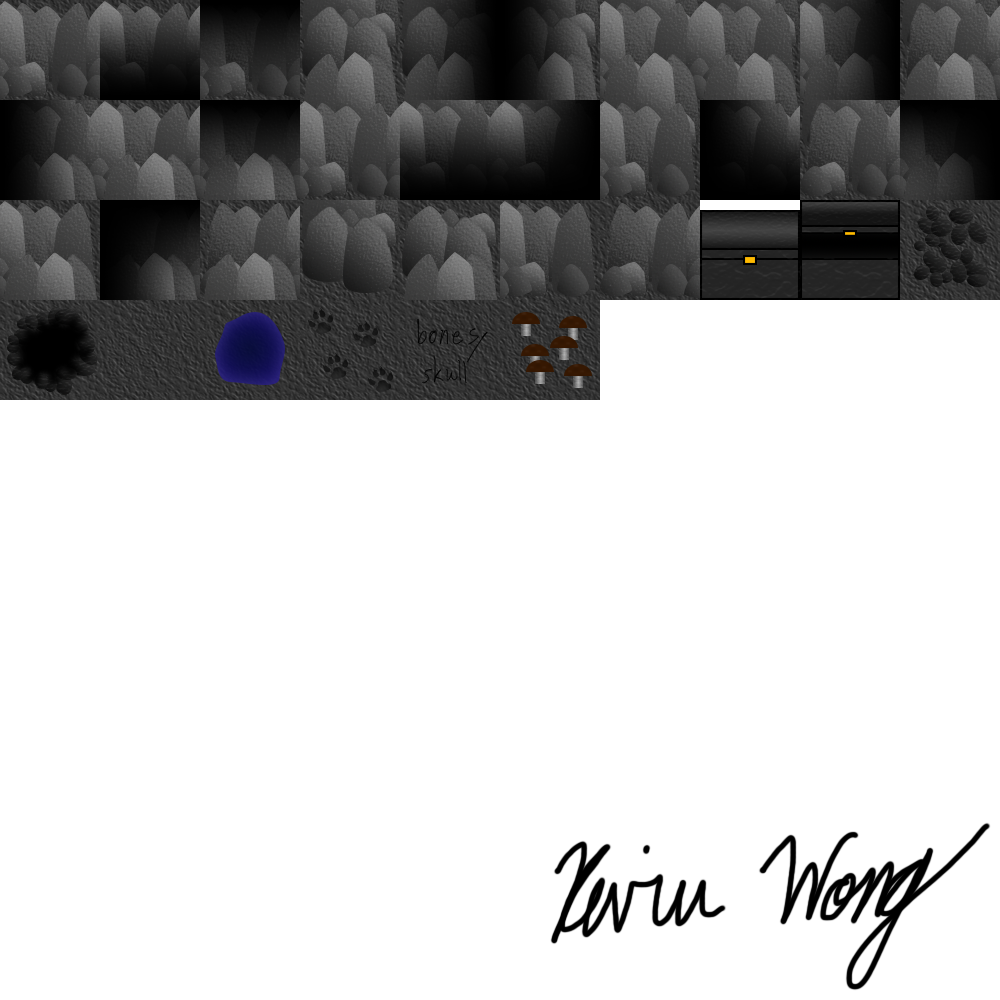
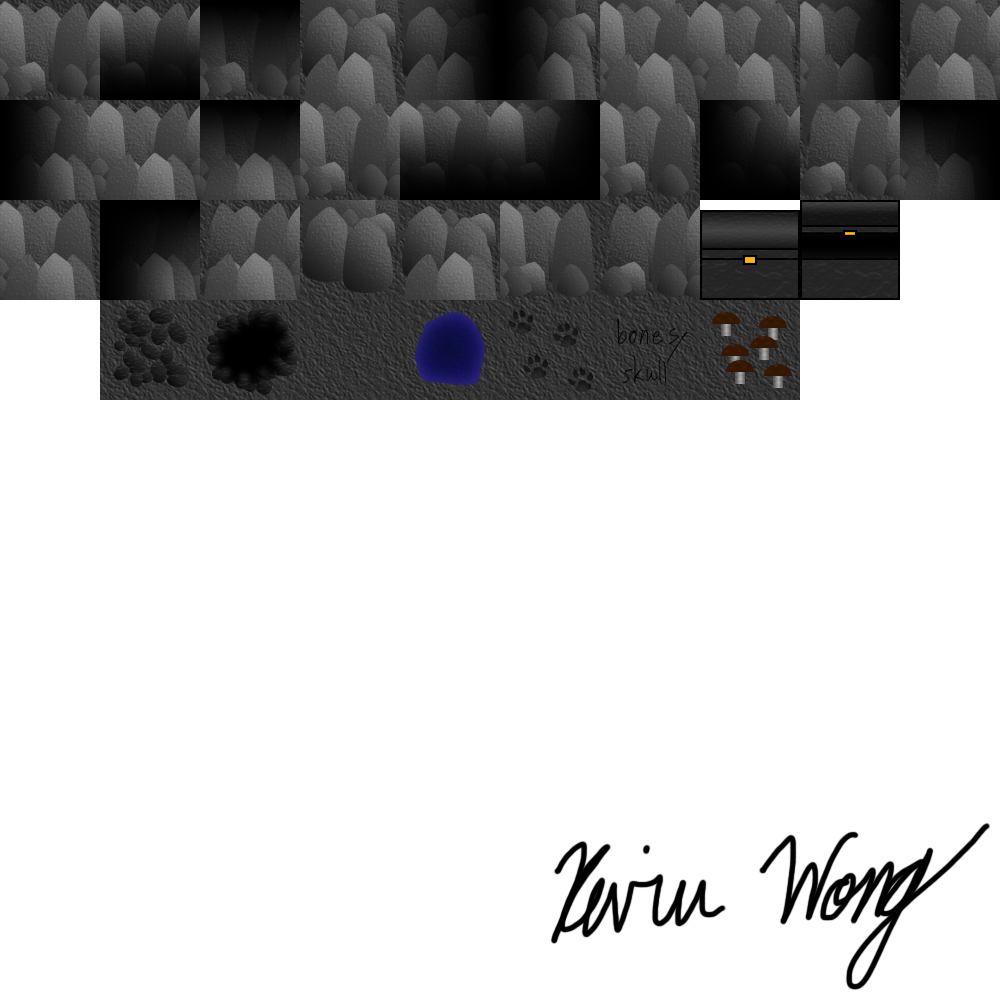
updated tilemap_dungeon1, tilemap_minimap, util.h enum ordering

Changed region(s): [[0.403, 0.279, 0.806, 0.403], [0.0, 0.279, 0.341, 0.403], [0.899, 0.186, 1.0, 0.31]]

diff --git a/Util.h b/Util.h
@@ -22,8 +22,8 @@ enum alignment { LEFT_JUST, CENTERED, RIGHT_JUST };
 enum states { STATE_MAINMENU, STATE_LEVELSELECT, STATE_DUNGEON, STATE_ENCOUNTER, STATE_END, STATE_TEST, STATE_EXAMPLE };
 enum maptiles { WE, WEFS, WEFN, NS, NSFE, NSFW, NSWE, NSW, NSWFE, NSE,
 				NSEFW, SWE, SWEFN, NWE, NWEFS, NWFSE, NW, NEFSW, NE, SWFNE,
-				SW, SEFNW, SE, N, S, W, E, chestc, chesto, enter,
-				X, O1, O2, O3, O4, O5, playerm };
+				SW, SEFNW, SE, N, S, W, E, chestc, chesto, playerm,
+				enemym, enter, X, O1, O2, O3, O4, O5 };
 enum passiveTiming { PRE_ATK, POST_ATK, PRE_DEF, POST_DEF, END };
 enum stance {STANCE_COMBAT, STANCE_SHIELD, STANCE_AGILE, STANCE_MEDITATE, STANCE_STUN};
 
